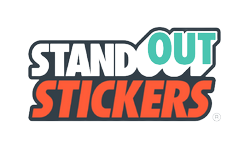
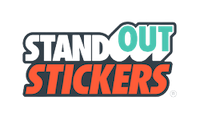
added centered, voiceflow, overleaf

diff --git a/pages/index.js b/pages/index.js
@@ -3,7 +3,9 @@ import TrackInfo from '../components/tracks'
 import ChallengeInfo from '../components/challenges'
 import FaqDropdown from '../components/faq'
 import AboutItem from '../components/about'
-import Sponsor from '../components/sponsors'
+import InKindSponsor from '../components/inKindSponsors'
+import BronzeSponsor from '../components/bronzeSponsor'
+import GoldSponsor from '../components/goldSponsor'
 
 import {useState, useEffect} from 'react'
 import Image from 'next/image'
@@ -25,6 +27,9 @@ import scrimba from '../images/scrimba.png'
 import standoutStickers from '../images/standoutStickers.png'
 import wolframAlpha from '../images/wolframAlpha.png'
 import github from '../images/github.png'
+import centered from '../images/centered.png'
+import overleaf from '../images/overleaf.png'
+import voiceflow from '../images/voiceflow.png'
 
 
 export default function Home() {
@@ -213,14 +218,30 @@ export default function Home() {
             </div>
           </div>
           {/*sponsors*/}
-          <div className='grid justify-center pt-6'>
+          <div>
             <h2 className='text-c2 font-bold text-6xl text-center'>sponsors</h2>
-            <div className='flex flex-wrap justify-evenly items-center lg:flex-row'>
-              <Sponsor image={taskade} link='https://www.taskade.com'/>
-              <Sponsor image={scrimba} link='https://scrimba.com'/>
-              <Sponsor image={standoutStickers} link='https://www.standoutstickers.com/?utm_campaign=events-league-organizers-spring2022&utm_medium=email&utm_source=customerio-zoho_creator_-_standout_sticker_intro'/>
-              <Sponsor image={wolframAlpha} link='https://www.wolframalpha.com'/>
-              <Sponsor image={github} link='https://github.com'/>
+            {/*gold sponsors*/}
+            <div className='grid justify-center'>
+              <div className='flex flex-wrap justify-evenly items-center lg:flex-row'>
+                <GoldSponsor image={github} link='https://github.com'/>
+              </div>
+            </div>
+            {/*bronze sponsors*/}
+            <div className='grid justify-center -mt-10'>
+              <div className='flex flex-wrap justify-evenly items-center lg:flex-row'>
+                <BronzeSponsor image={overleaf} link='https://www.overleaf.com'/>
+              </div>
+            </div>
+            {/*in-kind sponsors*/}
+            <div className='grid justify-center'>
+              <div className='flex flex-wrap justify-evenly items-center lg:flex-row'>
+                <InKindSponsor image={taskade} link='https://www.taskade.com'/>
+                <InKindSponsor image={scrimba} link='https://scrimba.com'/>
+                <InKindSponsor image={standoutStickers} link='https://www.standoutstickers.com/?utm_campaign=events-league-organizers-spring2022&utm_medium=email&utm_source=customerio-zoho_creator_-_standout_sticker_intro'/>
+                <InKindSponsor image={wolframAlpha} link='https://www.wolframalpha.com'/>
+                <InKindSponsor image={centered} link='https://www.centered.app'/>
+                <InKindSponsor image={voiceflow} link='https://www.voiceflow.com'/>
+              </div>
             </div>
           </div>
         </div>

diff --git a/components/inKindSponsors.js b/components/inKindSponsors.js
@@ -1,13 +1,13 @@
 import Image from "next/image";
-function Sponsor({image, link}) {
+function InKindSponsor({image, link}) {
     return (
-        <a href={link} target='_blank' rel='noreferrer' className='hover:scale-110 m-auto w-52 lg:p-4'>
-                <Image src={image} alt="logo in sponsors section"/>
+        <a href={link} target='_blank' rel='noreferrer' className='hover:scale-110 m-auto w-44 p-2 lg:p-4'>
+                <Image src={image} alt="in-kind logo in sponsors section"/>
         </a>
     )
 }
 
-export default Sponsor;
+export default InKindSponsor;
 
 /*import Image from "next/image";
 const Sponsor = ({ image, title, link }) => {

diff --git a/components/goldSponsor.js b/components/goldSponsor.js
@@ -1,0 +1,10 @@
+import Image from "next/image";
+function GoldSponsor({image, link}) {
+    return (
+        <a href={link} target='_blank' rel='noreferrer' className='hover:scale-110 m-auto w-[24rem] p-2 lg:p-4'>
+                <Image src={image} alt="bronze logo in sponsors section"/>
+        </a>
+    )
+}
+
+export default GoldSponsor;

diff --git a/components/bronzeSponsor.js b/components/bronzeSponsor.js
@@ -1,0 +1,10 @@
+import Image from "next/image";
+function BronzeSponsor({image, link}) {
+    return (
+        <a href={link} target='_blank' rel='noreferrer' className='hover:scale-110 m-auto w-56 p-2 lg:p-4'>
+                <Image src={image} alt="bronze logo in sponsors section"/>
+        </a>
+    )
+}
+
+export default BronzeSponsor;
